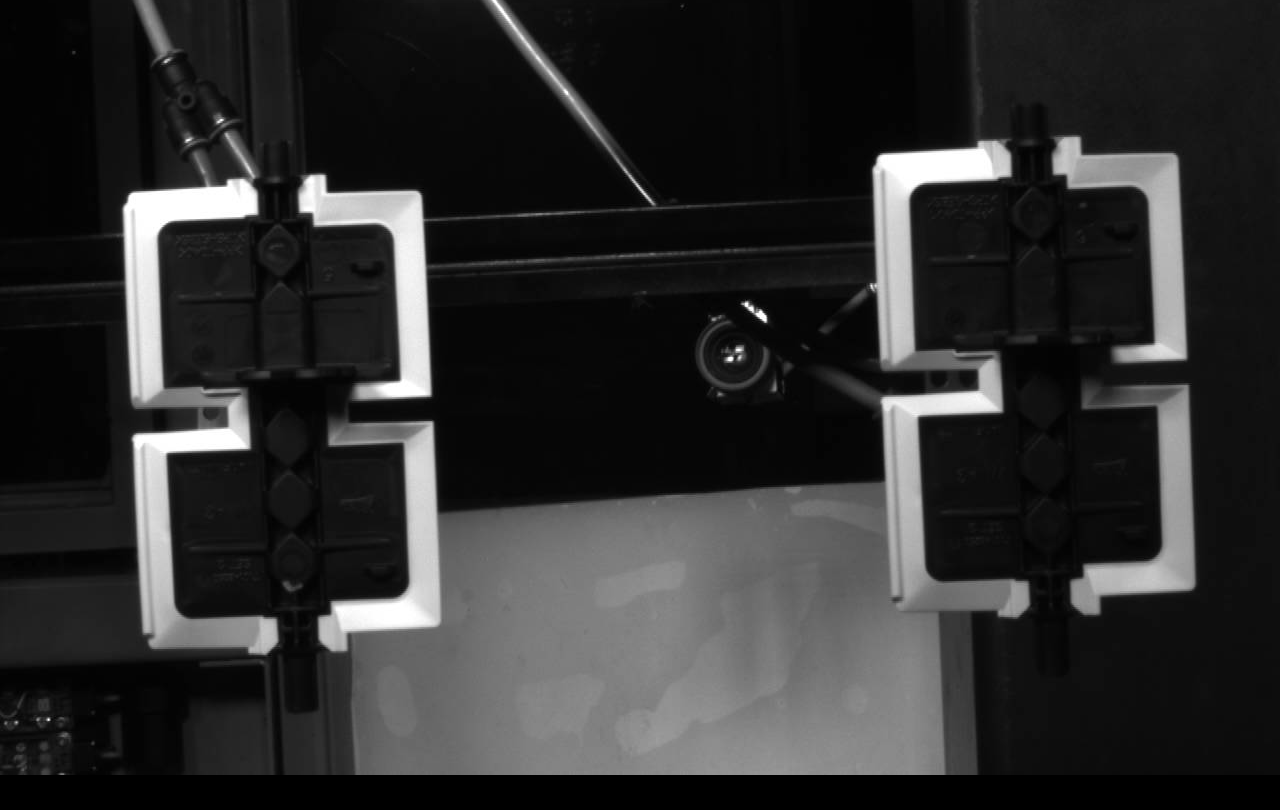
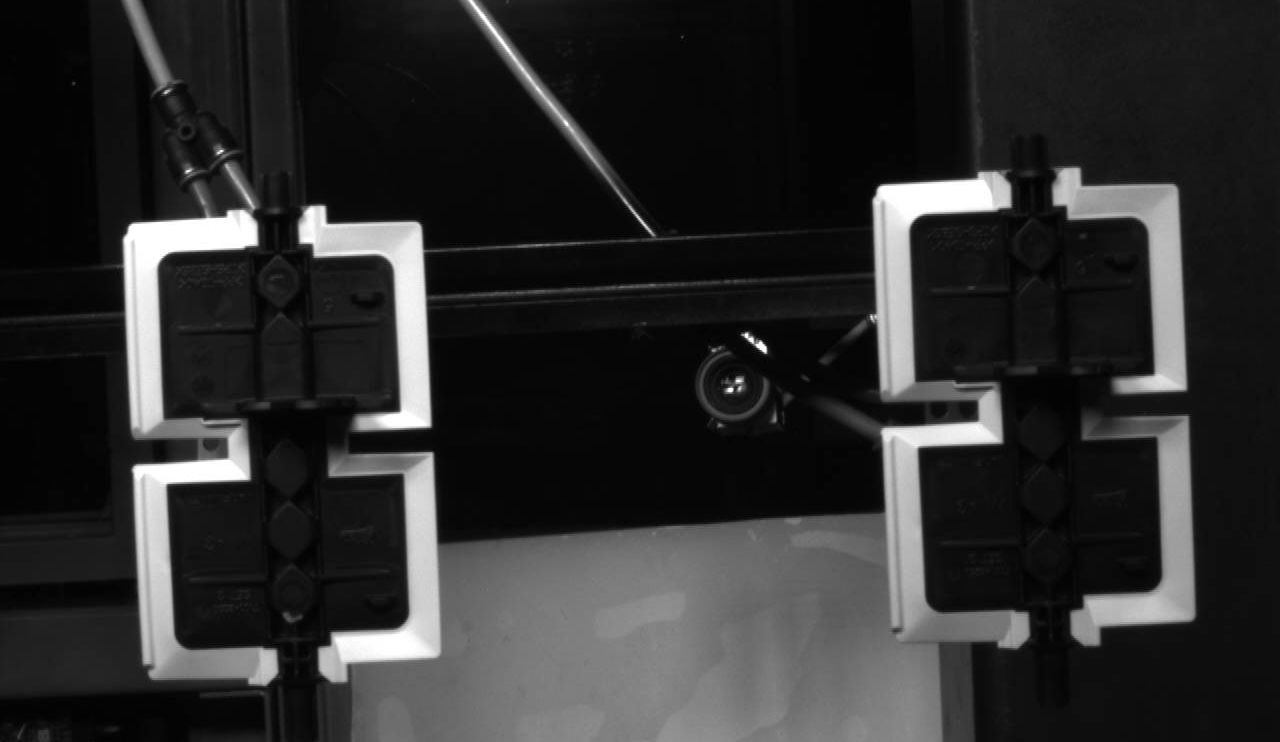
Galerie Masterů: Hned pod nadpisem "Zóny" se nyní zobrazí náhledy všech uložených Masterů pro daný projekt (např. MQB).  Selektor: Každý náhled má tlačítko "Vybrat". Kliknutím na něj se celá editační plocha (slidery i seznam zón) přepne na tuto konkrétní fotku.  Perzistence: Vybraný Master zůstává a

diff --git a/app.py b/app.py
@@ -106,23 +106,56 @@ with tab2:
             cv2.rectangle(preview, (ax, ay), (ax+aw, ay+ah), (255, 0, 0), 10)
             st.image(preview, use_container_width=True)
 
-# --- TAB 3: ZÓNY ---
+# --- TAB 3: ZÓNY (S VÝBĚREM MASTERU) ---
 with tab3:
     st.subheader("📍 Správa inspekčních zón")
-    masters = database.get_masters(st.session_state.active_project)
     
-    if not masters or not masters[0][2]:
-        st.warning("Nejdříve uložte Master v záložce 🎯 MASTER")
+    # 1. Získání všech Masterů pro aktivní projekt
+    all_masters = database.get_masters(st.session_state.active_project)
+    
+    if not all_masters:
+        st.warning("⚠ Nejdříve vytvořte alespoň jeden Master snímek v záložce 🎯 MASTER")
     else:
-        m_id, m_name, m_path = masters[0][0], masters[0][1], masters[0][2]
+        # --- SEKCE VÝBĚRU MASTERU (HORIZONTÁLNÍ GALERIE) ---
+        st.write("### 🖼 Vyberte Master snímek pro editaci")
+        
+        # Vytvoříme řadu sloupců pro náhledy
+        cols = st.columns(len(all_masters) if len(all_masters) < 5 else 5)
+        
+        # Inicializace vybraného masteru v session_state
+        if 'selected_master_id' not in st.session_state:
+            st.session_state.selected_master_id = all_masters[0][0]
+
+        for i, m in enumerate(all_masters):
+            m_id, m_name, m_path = m[0], m[1], m[2]
+            with cols[i % 5]:
+                if os.path.exists(m_path):
+                    st.image(m_path, caption=m_name, use_container_width=True)
+                    if st.button(f"Vybrat {m_name}", key=f"sel_{m_id}", use_container_width=True):
+                        st.session_state.selected_master_id = m_id
+                        st.rerun()
+                else:
+                    st.error(f"Chybí soubor: {m_name}")
+
+        st.divider()
+
+        # 2. NAČTENÍ DAT PRO VYBRANÝ MASTER
+        selected_m = next((m for m in all_masters if m[0] == st.session_state.selected_master_id), all_masters[0])
+        m_id, m_name, m_path = selected_m[0], selected_m[1], selected_m[2]
+        
+        st.info(f"🔎 Editujete zóny pro Master: **{m_name}**")
+
         if os.path.exists(m_path):
             img_roi = Image.open(m_path).convert("RGB")
             W, H = img_roi.size
             all_rois = database.get_rois(m_id)
+            
             c_z1, c_z2 = st.columns([1, 2])
             
             with c_z1:
+                # --- FORMULÁŘ PRO ROI ---
                 current_roi = next((r for r in all_rois if r[0] == st.session_state.editing_id), None)
+                
                 if st.session_state.editing_id:
                     st.markdown(f"### ✏ Editace: <span style='color:#ff4b4b'>{current_roi[1] if current_roi else ''}</span>", unsafe_allow_html=True)
                 else:
@@ -149,7 +182,7 @@ with tab3:
                         st.rerun()
 
                 st.divider()
-                st.write("### 📋 Seznam zón")
+                st.write("### 📋 Seznam zón pro tento Master")
                 for r in all_rois:
                     is_editing = (r[0] == st.session_state.editing_id)
                     bg_color = "rgba(255, 75, 75, 0.2)" if is_editing else "transparent"
@@ -165,6 +198,7 @@ with tab3:
                     st.markdown("</div>", unsafe_allow_html=True)
 
             with c_z2:
+                # --- KRESLENÍ ---
                 draw = ImageDraw.Draw(img_roi)
                 for r in all_rois:
                     if r[0] == st.session_state.editing_id:
@@ -173,11 +207,13 @@ with tab3:
                     else:
                         draw.rectangle([r[2], r[3], r[2]+r[4], r[3]+r[5]], outline="#deff9a", width=3)
                         draw.text((r[2], r[3]-20), r[1], fill="#deff9a")
+                
                 if not st.session_state.editing_id:
                     draw.rectangle([zx, zy, zx+zw, zy+zh], outline="orange", width=3)
+                
                 st.image(img_roi, use_container_width=True)
         else:
-            st.error(f"Soubor {m_path} nenalezen.")
+            st.error(f"Soubor {m_path} nebyl nalezen.")
 
 # --- TAB 4: I/O ---
 with tab4:
